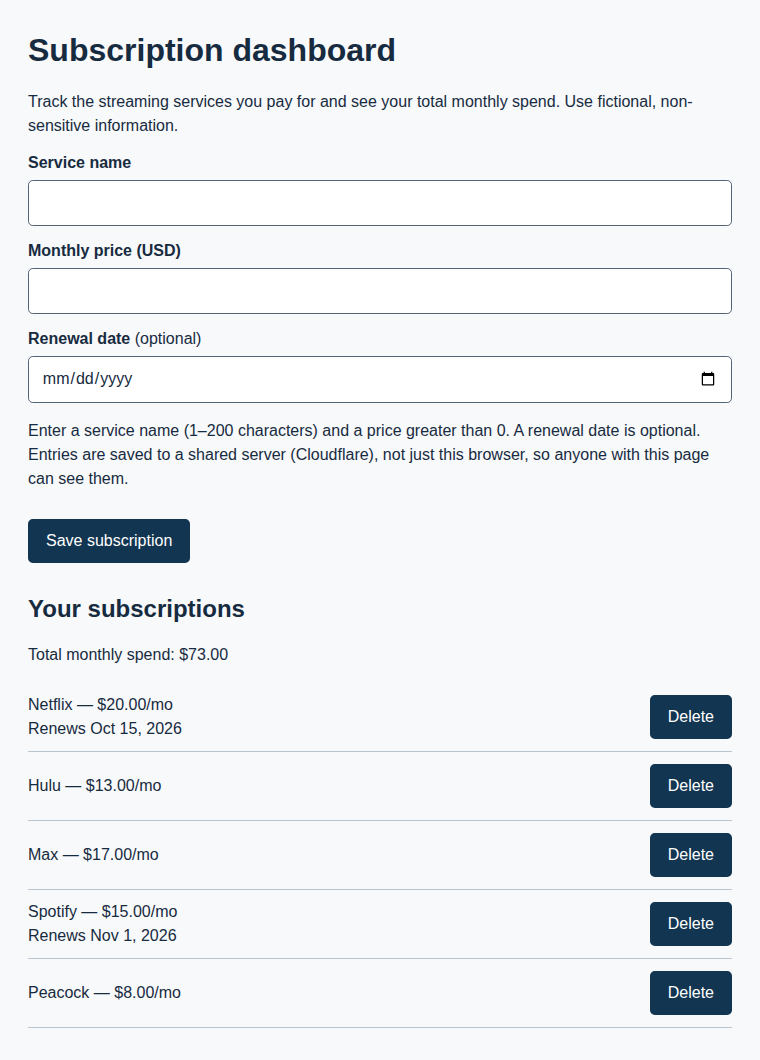
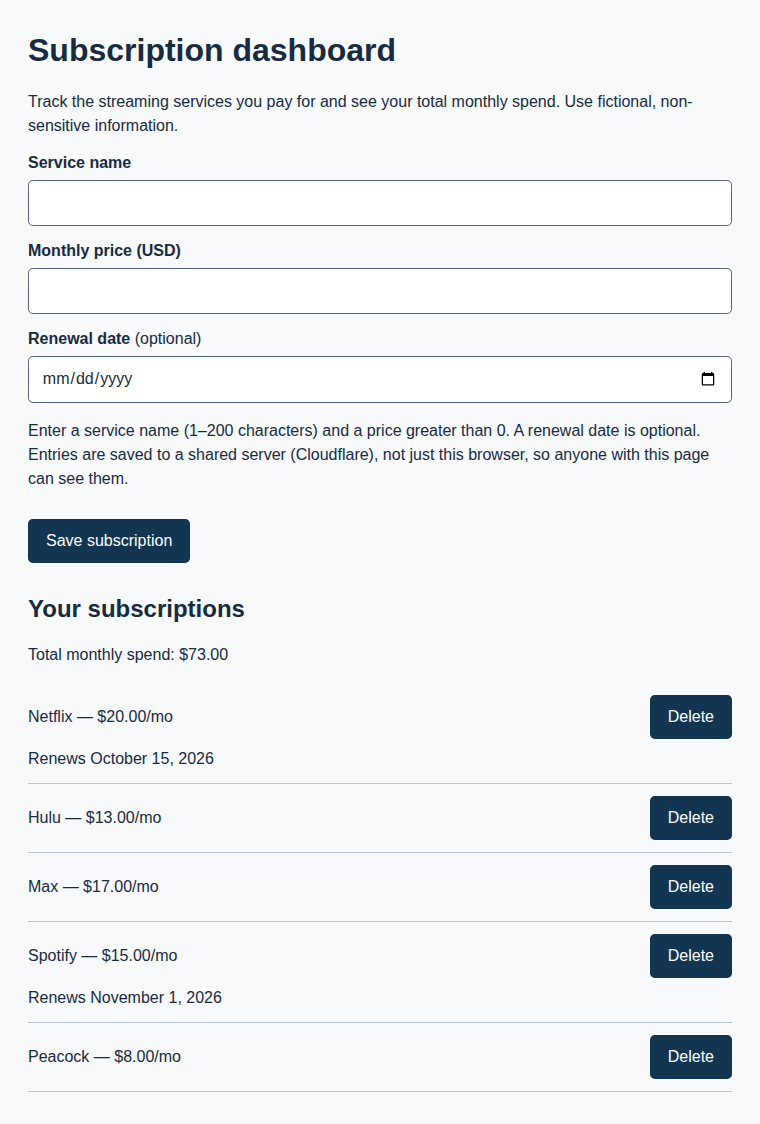
Space bolt's date line off the row divider; retake the feature screenshot
bolt places the date after the Delete button, so it sat on the divider.
The screenshot is retaken from a clean local database with the integrated
page (dates now read "Renews October 15, 2026").

Claude-Session: https://claude.ai/code/session_01LgpQoSHF7eF9xcCXqAwpT4

diff --git a/styles.css b/styles.css
@@ -42,4 +42,4 @@ input[aria-invalid="true"] { border: 2px solid var(--color-error); }
    DDR-001 fix: bolt made it 0.9rem (14.4px, under font-size-min) in raw
    #526578; it is information, not decoration, so it uses the body size and
    color-text like the rest of the row. */
-#note-list .renewal-date { flex: 1 1 100%; font-size: var(--font-size-min); color: var(--color-text); }
+#note-list .renewal-date { flex: 1 1 100%; margin: -0.75rem 0 0.75rem; line-height: 1.5; font-size: var(--font-size-min); color: var(--color-text); }
